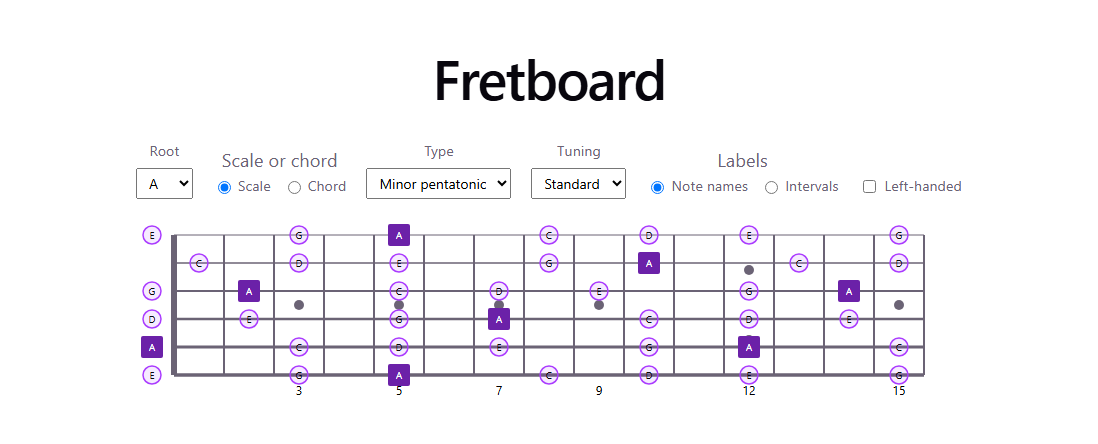
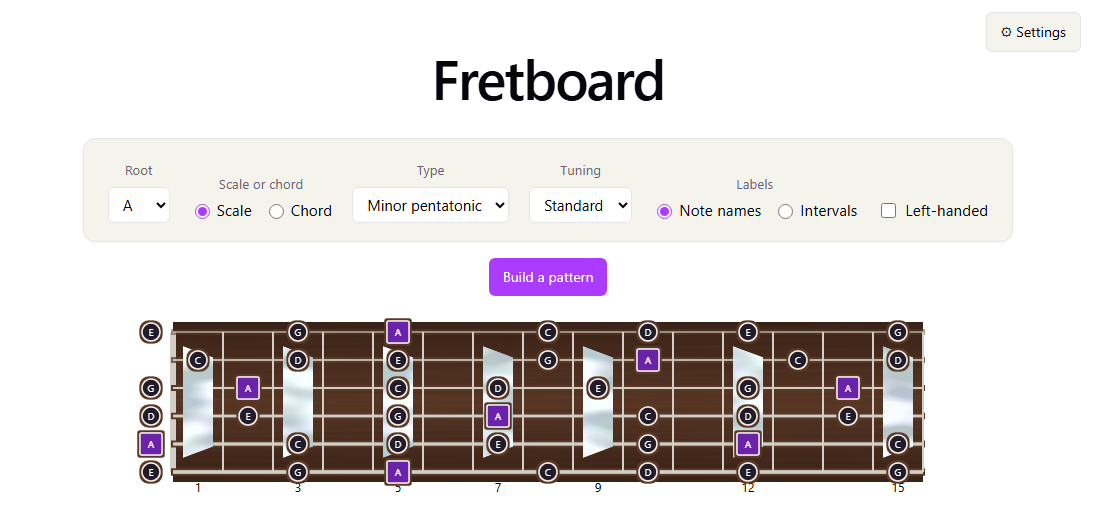
docs: update the README screenshot to show the new inlays

diff --git a/README.md b/README.md
@@ -6,7 +6,7 @@ distinct shape rather than just a colour.
 
 **[Live demo](https://scf1001.github.io/fretboard-app/)**
 
-![Screenshot of the Fretboard app showing A minor pentatonic highlighted on a standard-tuned fretboard](docs/screenshot.png)
+![Screenshot of the Fretboard app showing A minor pentatonic highlighted on a standard-tuned rosewood fretboard with mother-of-pearl trapezoid inlays](docs/screenshot.png)
 
 ## Features
 
